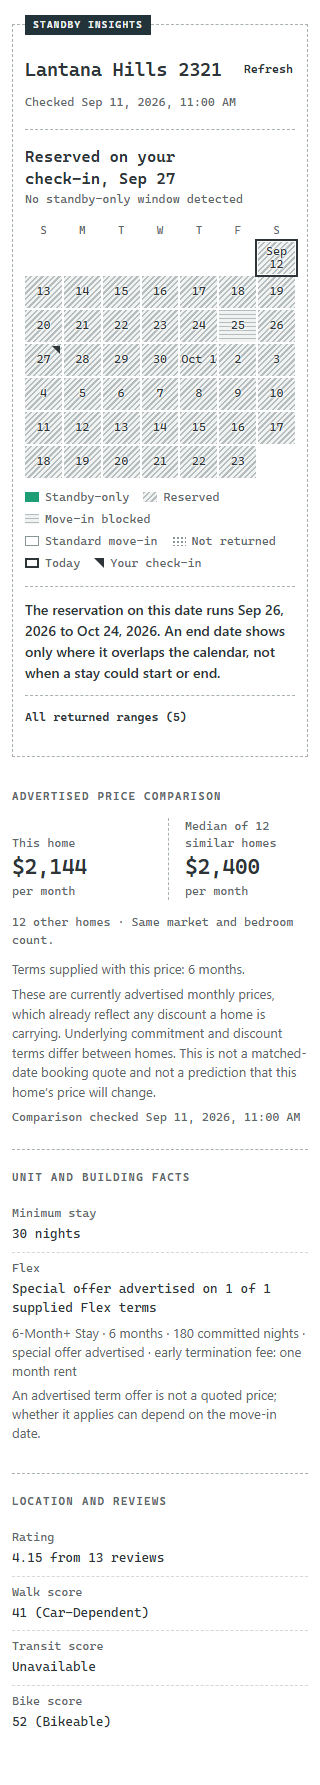
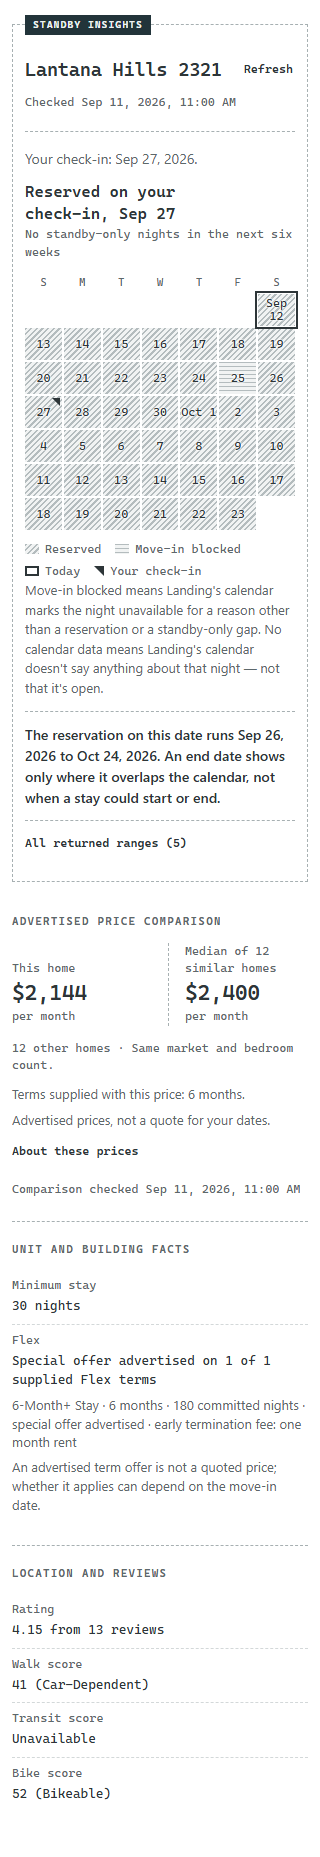
Put the full price disclosure behind one caveat line (#45)
The card key stays on every card and card notes don't collapse. Under the
panel prices, one caveat sentence stays visible and the full disclosure sits
in a collapsed "About these prices" details.

Changed region(s): [[0.0312, 0.0, 0.9375, 0.986], [0.7812, 0.0308, 0.9062, 0.0616]]

diff --git a/src/panel/render.js b/src/panel/render.js
@@ -146,6 +146,7 @@ function termsText(price) {
 
 const plural = (count, singular) => (count === 1 ? singular : `${singular}s`);
 
+const COMPARISON_CAVEAT = 'Advertised prices, not a quote for your dates.';
 const COMPARISON_DISCLOSURE = 'These are currently advertised monthly prices, which already reflect any discount a home is carrying. Underlying commitment and discount terms differ between homes. This is not a matched-date booking quote and not a prediction that this home’s price will change.';
 
 /**
@@ -155,7 +156,7 @@ const COMPARISON_DISCLOSURE = 'These are currently advertised monthly prices, wh
  */
 function comparisonView(state) {
   const comparison = state.comparison;
-  const view = { visible: false, statusText: '', subjectText: '', termsNote: '', disclosure: '', checkTimeText: '', prices: [], scopeText: '' };
+  const view = { visible: false, statusText: '', subjectText: '', termsNote: '', caveat: '', disclosure: '', checkTimeText: '', prices: [], scopeText: '' };
   if (!comparison || comparison.status === 'idle') return view;
 
   view.visible = true;
@@ -187,7 +188,9 @@ function comparisonView(state) {
   view.termsNote = [termsText(comparison.subjectPrice), comparison.subjectPrice?.note]
     .filter((line) => line)
     .join(' ');
-  // The disclosure qualifies price figures, so it appears only beside them.
+  // Both qualify price figures, so they appear only beside them. The caveat
+  // stays in view; the full disclosure sits one click behind it.
+  view.caveat = view.prices.length > 0 ? COMPARISON_CAVEAT : '';
   view.disclosure = view.prices.length > 0 ? COMPARISON_DISCLOSURE : '';
 
   if (comparison.checkedAt !== null) {

diff --git a/src/panel/panel.css b/src/panel/panel.css
@@ -140,7 +140,7 @@ h2 {
 
 /* Every returned range, past the grid's six weeks: a typed instruction that opens a ledger. */
 #all-ranges { margin-top: 12px; border-top: 1px dashed var(--outline); }
-#all-ranges summary {
+#all-ranges summary, #price-disclosure summary {
   display: flex;
   align-items: center;
   min-height: 44px;
@@ -148,8 +148,8 @@ h2 {
   font: 500 12px/1.3 var(--mono);
   cursor: pointer;
 }
-#all-ranges summary:hover { text-decoration: underline; text-underline-offset: 3px; }
-#all-ranges summary:focus-visible { outline: 2px solid var(--on); outline-offset: 2px; }
+#all-ranges summary:hover, #price-disclosure summary:hover { text-decoration: underline; text-underline-offset: 3px; }
+#all-ranges summary:focus-visible, #price-disclosure summary:focus-visible { outline: 2px solid var(--on); outline-offset: 2px; }
 #all-ranges-list { margin: 0; padding: 0; list-style: none; font: 12px/1.5 var(--mono); }
 #all-ranges-list li { padding: 6px 0; border-top: 1px dashed #d3d8d9; }
 
@@ -164,6 +164,7 @@ h2 {
 #comparison-status:not(:empty) { color: var(--on-2); font: 12px/1.45 var(--mono); margin-bottom: 10px; }
 #comparison-subject:not(:empty) { margin-bottom: 10px; }
 #comparison-terms:not(:empty) { margin-bottom: 6px; }
+#price-disclosure > p { margin: 0 0 4px; }
 #comparison-check-time:not(:empty) { margin-top: 8px; font: 12px/1.45 var(--mono); }
 
 .facts > div { display: grid; grid-template-columns: minmax(0, 1fr) minmax(0, 1.6fr); border-bottom: 1px dashed #d3d8d9; }

diff --git a/src/panel/panel.js b/src/panel/panel.js
@@ -11,6 +11,8 @@ const comparisonSection = document.getElementById('comparison-section');
 const comparisonStatus = document.getElementById('comparison-status');
 const comparisonSubject = document.getElementById('comparison-subject');
 const comparisonTerms = document.getElementById('comparison-terms');
+const comparisonCaveat = document.getElementById('comparison-caveat');
+const priceDisclosure = document.getElementById('price-disclosure');
 const comparisonDisclosure = document.getElementById('comparison-disclosure');
 const comparisonCheckTime = document.getElementById('comparison-check-time');
 const factsSection = document.getElementById('facts-section');
@@ -122,6 +124,8 @@ function render(state) {
   comparisonSubject.textContent = view.comparison.subjectText;
   comparisonSubject.hidden = view.comparison.prices.length > 0 && view.comparison.prices[0].amount !== 'Unavailable';
   comparisonTerms.textContent = view.comparison.termsNote;
+  comparisonCaveat.textContent = view.comparison.caveat;
+  priceDisclosure.hidden = !view.comparison.disclosure;
   comparisonDisclosure.textContent = view.comparison.disclosure;
   comparisonCheckTime.textContent = view.comparison.checkTimeText;
 

diff --git a/test/panel-render.test.js b/test/panel-render.test.js
@@ -82,11 +82,15 @@ test('every returned range is listed chronologically with full dates and status 
   assert.deepEqual(describeState({ status: 'unavailable', checkedAt: 1000 }).allRanges, []);
 });
 
-test('the price disclosure shows only beside shown prices', () => {
+test('the price caveat and disclosure show only beside shown prices', () => {
   const comparison = { status: 'ready', median: 2400, count: 12, checkedAt: 1000, subjectPrice: { amount: 2144, label: 'per month', terms: [], note: null } };
-  assert.match(describeState({ checkedAt: null, comparison }).comparison.disclosure, /not a prediction/);
+  const ready = describeState({ checkedAt: null, comparison }).comparison;
+  assert.equal(ready.caveat, 'Advertised prices, not a quote for your dates.');
+  assert.match(ready.disclosure, /not a prediction/);
   for (const status of ['unavailable', 'insufficient']) {
-    assert.equal(describeState({ checkedAt: null, comparison: { ...comparison, status } }).comparison.disclosure, '');
+    const view = describeState({ checkedAt: null, comparison: { ...comparison, status } }).comparison;
+    assert.equal(view.caveat, '');
+    assert.equal(view.disclosure, '');
   }
 });
 

diff --git a/src/panel/panel.html b/src/panel/panel.html
@@ -47,7 +47,11 @@
       <p id="comparison-status" role="status"></p>
       <p id="comparison-subject"></p>
       <p id="comparison-terms" class="supporting"></p>
-      <p id="comparison-disclosure" class="supporting"></p>
+      <p id="comparison-caveat" class="supporting"></p>
+      <details id="price-disclosure" hidden>
+        <summary>About these prices</summary>
+        <p id="comparison-disclosure" class="supporting"></p>
+      </details>
       <p id="comparison-check-time" class="check-time"></p>
     </section>
 

diff --git a/DESIGN.md b/DESIGN.md
@@ -252,7 +252,7 @@ The grid condensed to a 10px horizontal bar of flex segments using the same stat
 Mono title that turns deep green when the answer is standby-only, preceded by a solid green square (9px panel, 7px card) that ignores forced-color adjustment. A mono detail line in on-2 follows.
 
 ### Price Comparison
-Two columns of mono label, large mono figure and mono caveat, split by a dashed vertical rule; stacks at 260px.
+Two columns of mono label, large mono figure and mono caveat, split by a dashed vertical rule; stacks at 260px. Under them, in 13px sans on-2: the unit's supplied terms, then one caveat sentence ("Advertised prices, not a quote for your dates."). The full disclosure sits in a collapsed native `<details>` whose "About these prices" summary uses the All returned ranges text-action treatment. The comparison check time closes the section.
 
 ### Facts List
 Mono label and mono value on a dashed-divided row; any second value line is a 13px sans caveat in on-2. Stacks at 380px.
